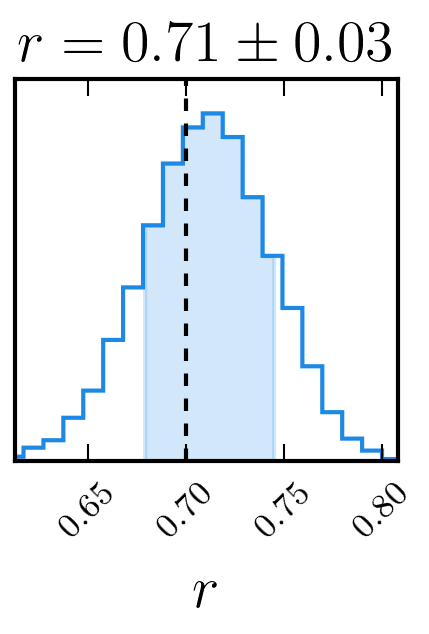
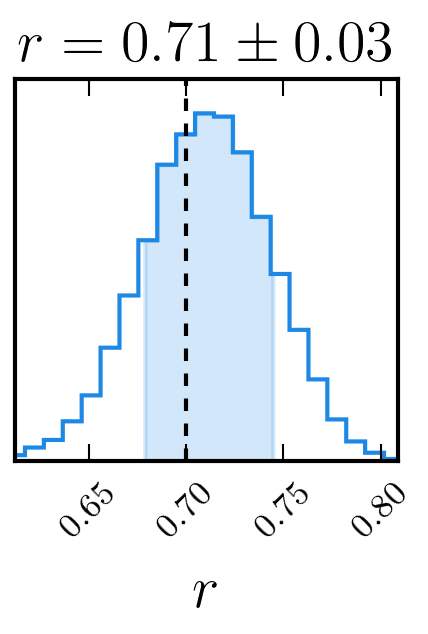
Removing some print statements. Updating plot.

diff --git a/dessn/model/model.py b/dessn/model/model.py
@@ -229,59 +229,43 @@ class Model(object):
             dependencies = edge.given + edge.probability_of
             discretes = [parameter for parameter in dependencies if isinstance(self._node_dict[parameter], NodeDiscrete)]
             unfilled = [d for d in discretes if d not in theta_dict]
-            unfilled_nodes = [self._node_dict[n] for n in unfilled]
             if len(unfilled) > 0:
                 first_name = unfilled[0]
                 first_node = self._node_dict[first_name]
-                # print("first", first_name)
                 unfilled_dependencies = first_node.get_discrete_requirements()
-                # print("unfilled dependencies", unfilled_dependencies)
                 to_pass = dict((k, theta_dict[k]) for k in unfilled_dependencies)
                 discrete = first_node.get_discrete(to_pass)
-                # print("discrete", discrete)
                 dependent_edges = self._get_dependencies(edges, first_name)
                 edges = [e for e in edges if e not in dependent_edges]
                 for d in discrete:
                     theta_dict.update({first_name: d})
-                    # print("Doing discrete val ", d)
                     result = self._get_edge_likelihood(theta_dict, dependent_edges)
-                    # print("RESULT:", d, result, theta_dict)
                     if probability == 0.0:
                         probability = result
-                        # print("P1.1 ", probability)
                     else:
                         probability = np.logaddexp(result, probability)
-                        # print("P1.2 ", result, probability)
             else:
                 edgeIndex += 1
                 if isinstance(edge, EdgeTransformation):
                     theta_dict.update(self._get_transformation(theta_dict, edge))
                 else:
                     result = self._get_log_likelihood(theta_dict, edge)
-                    # print("P1.3 ", result, edge)
                     probability += result
-        # print("P1.4 ", probability)
         return probability
 
     def _get_log_posterior(self, theta):
         theta_dict, data = self._get_theta_dict(theta)
         probability = self._get_log_prior(theta_dict)
-        # print("=================== P1 ", probability)
-        # print(self._ordered_edges)
-        # print(theta_dict, data)
         if np.isfinite(probability):
             for observation in data:
                 t = theta_dict.copy()
                 t.update(observation)
                 result = self._get_edge_likelihood(t, self._ordered_edges[:])
                 probability += result
-                # print("P2 ", result)
-        # print("P3 ", probability)
         return probability
 
     def _get_negative_log_posterior(self, theta):
         val = self._get_log_posterior(theta)
-        # print(val)#, theta)
         return -val
 
     def _get_suggestion(self):
@@ -290,7 +274,6 @@ class Model(object):
             node = self._node_dict[name]
             if node not in node_sorted:
                 node_sorted.append(node)
-
         theta = []
         data = self.data
         for node in node_sorted:
@@ -308,7 +291,6 @@ class Model(object):
         if self.num_temps is None:
             optimised = fmin_bfgs(self._get_negative_log_posterior, p0)
             self.logger.debug("Starting position is: %s" % optimised)
-            print(optimised)
         else:
             optimised = p0
 

diff --git a/dessn/examples/discrete/discrete.py b/dessn/examples/discrete/discrete.py
@@ -132,10 +132,9 @@ if __name__ == "__main__":
         model.get_pgm(pgm_file)
 
     logging.info("Starting fit")
-    model.fit_model(num_steps=2000, num_burn=100, temp_dir=temp_dir, save_interval=20)
+    model.fit_model(num_steps=3000, num_burn=100, temp_dir=temp_dir, save_interval=20)
 
     if not only_data:
         chain_consumer = model.get_consumer()
-        chain_consumer.configure_general(bins=1.0)
         print(chain_consumer.get_summary())
         chain_consumer.plot(filename=plot_file, display=False, truth=[0.7])
